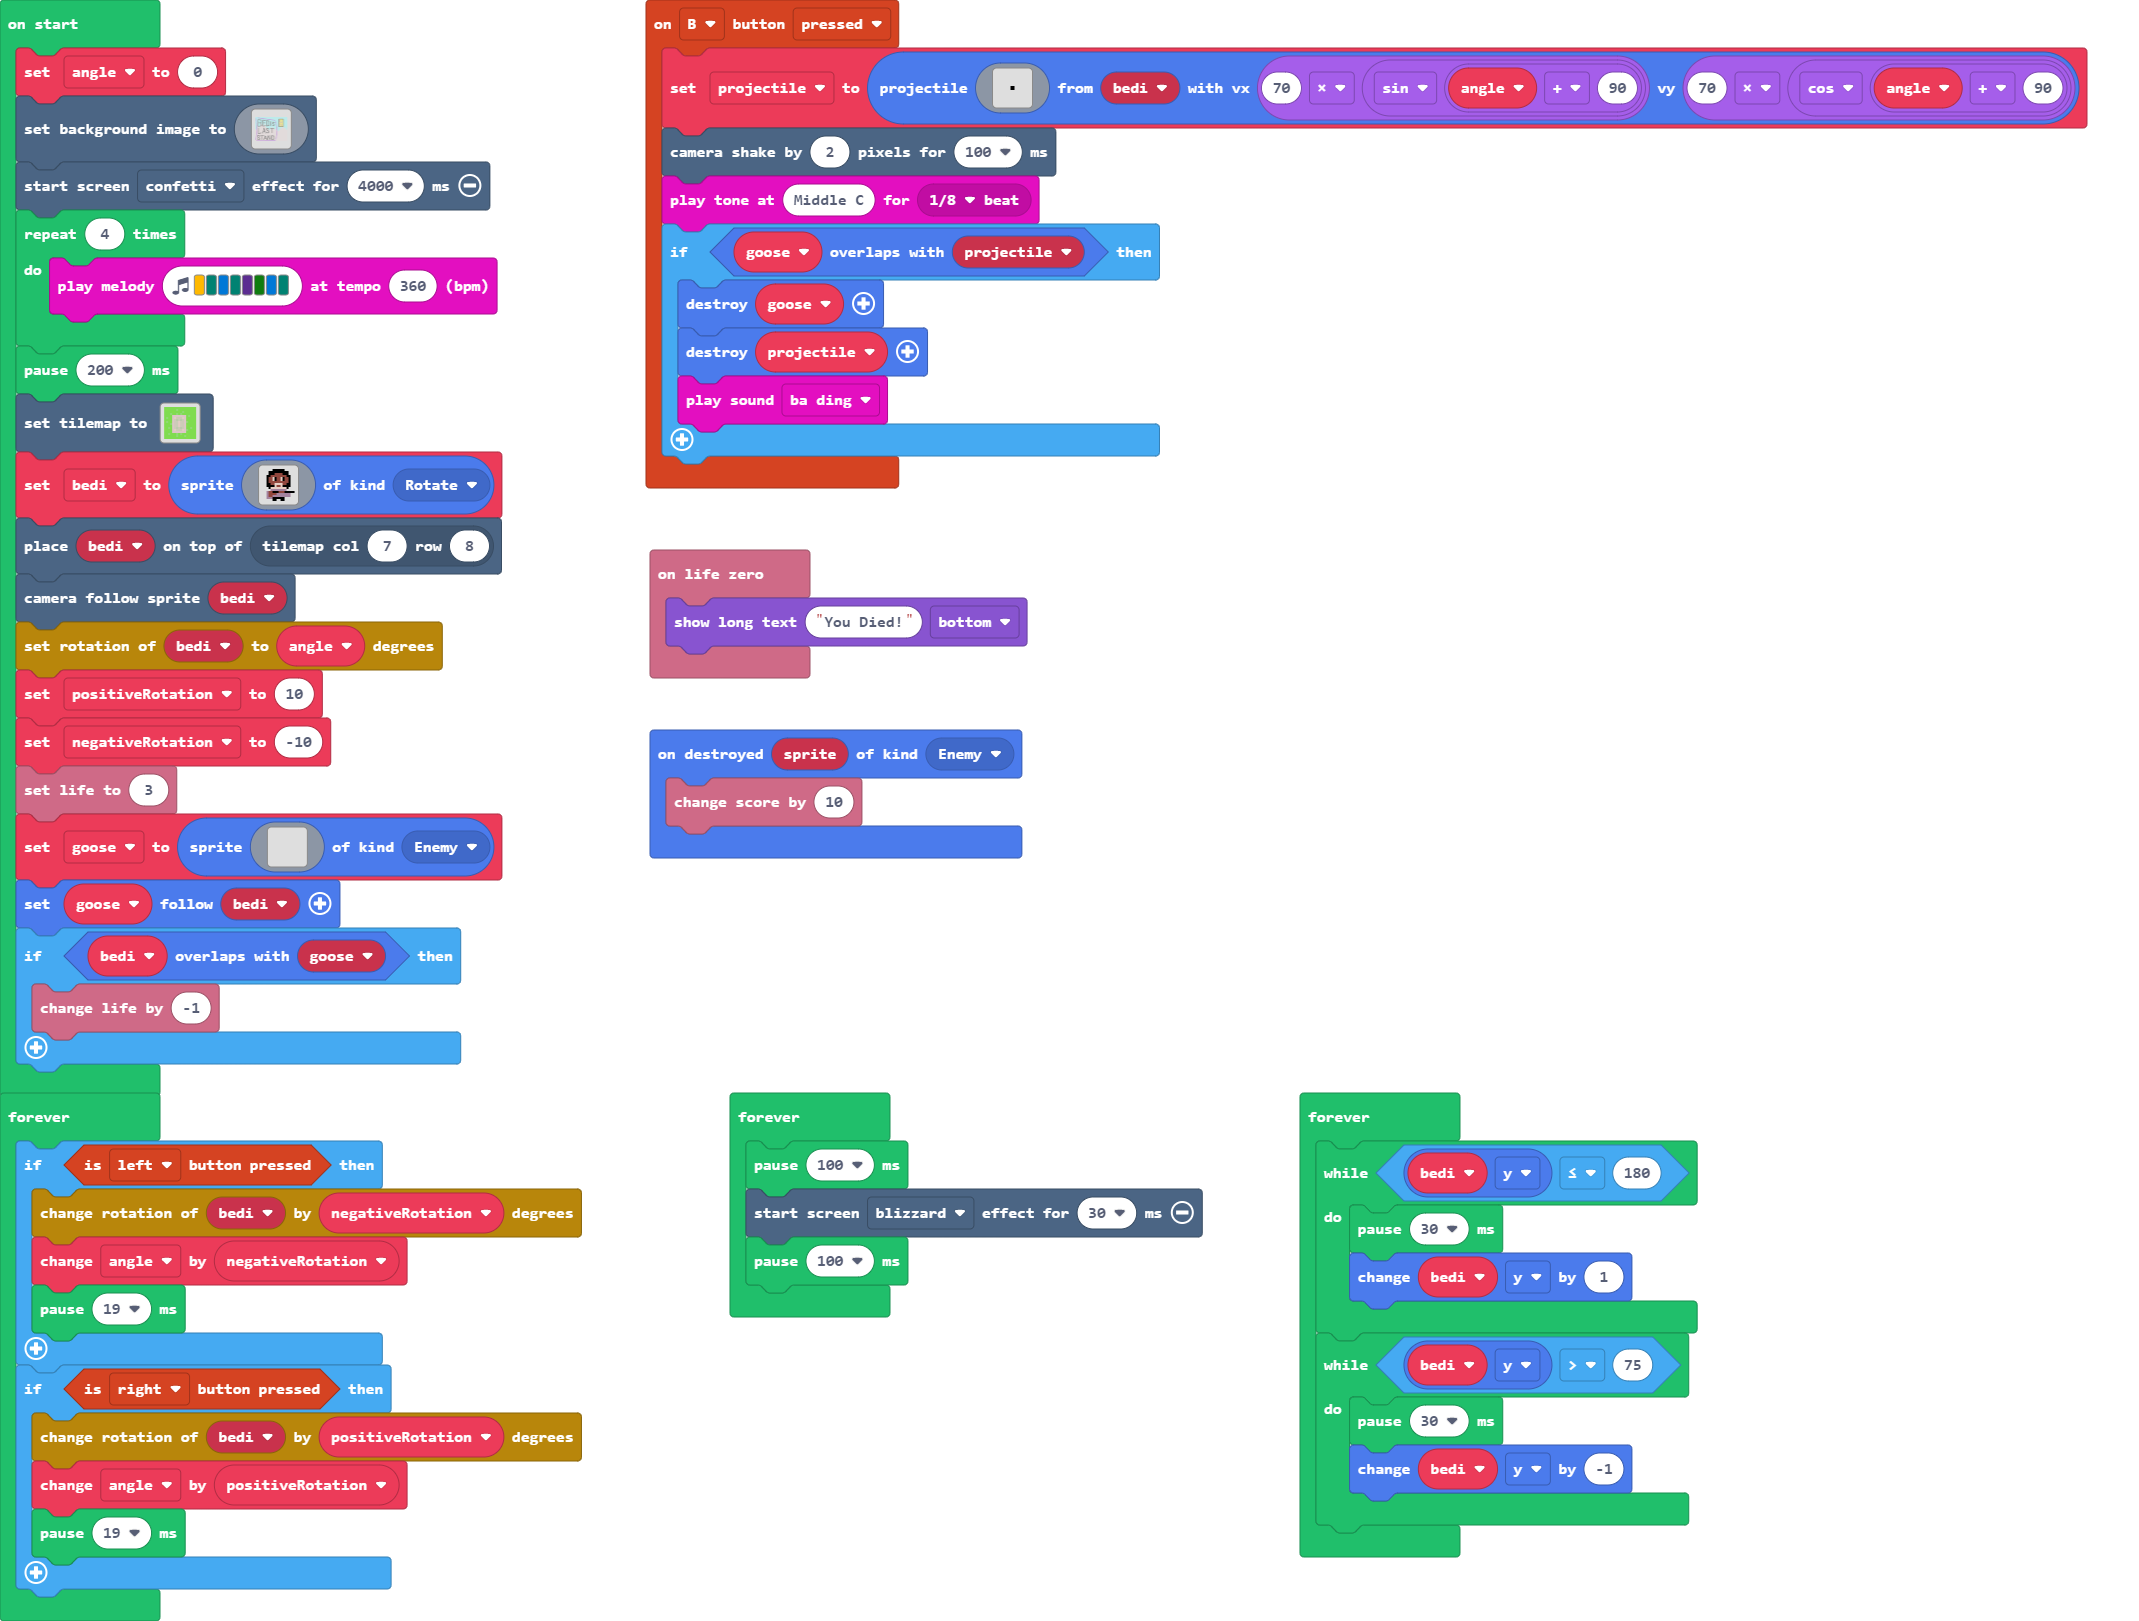
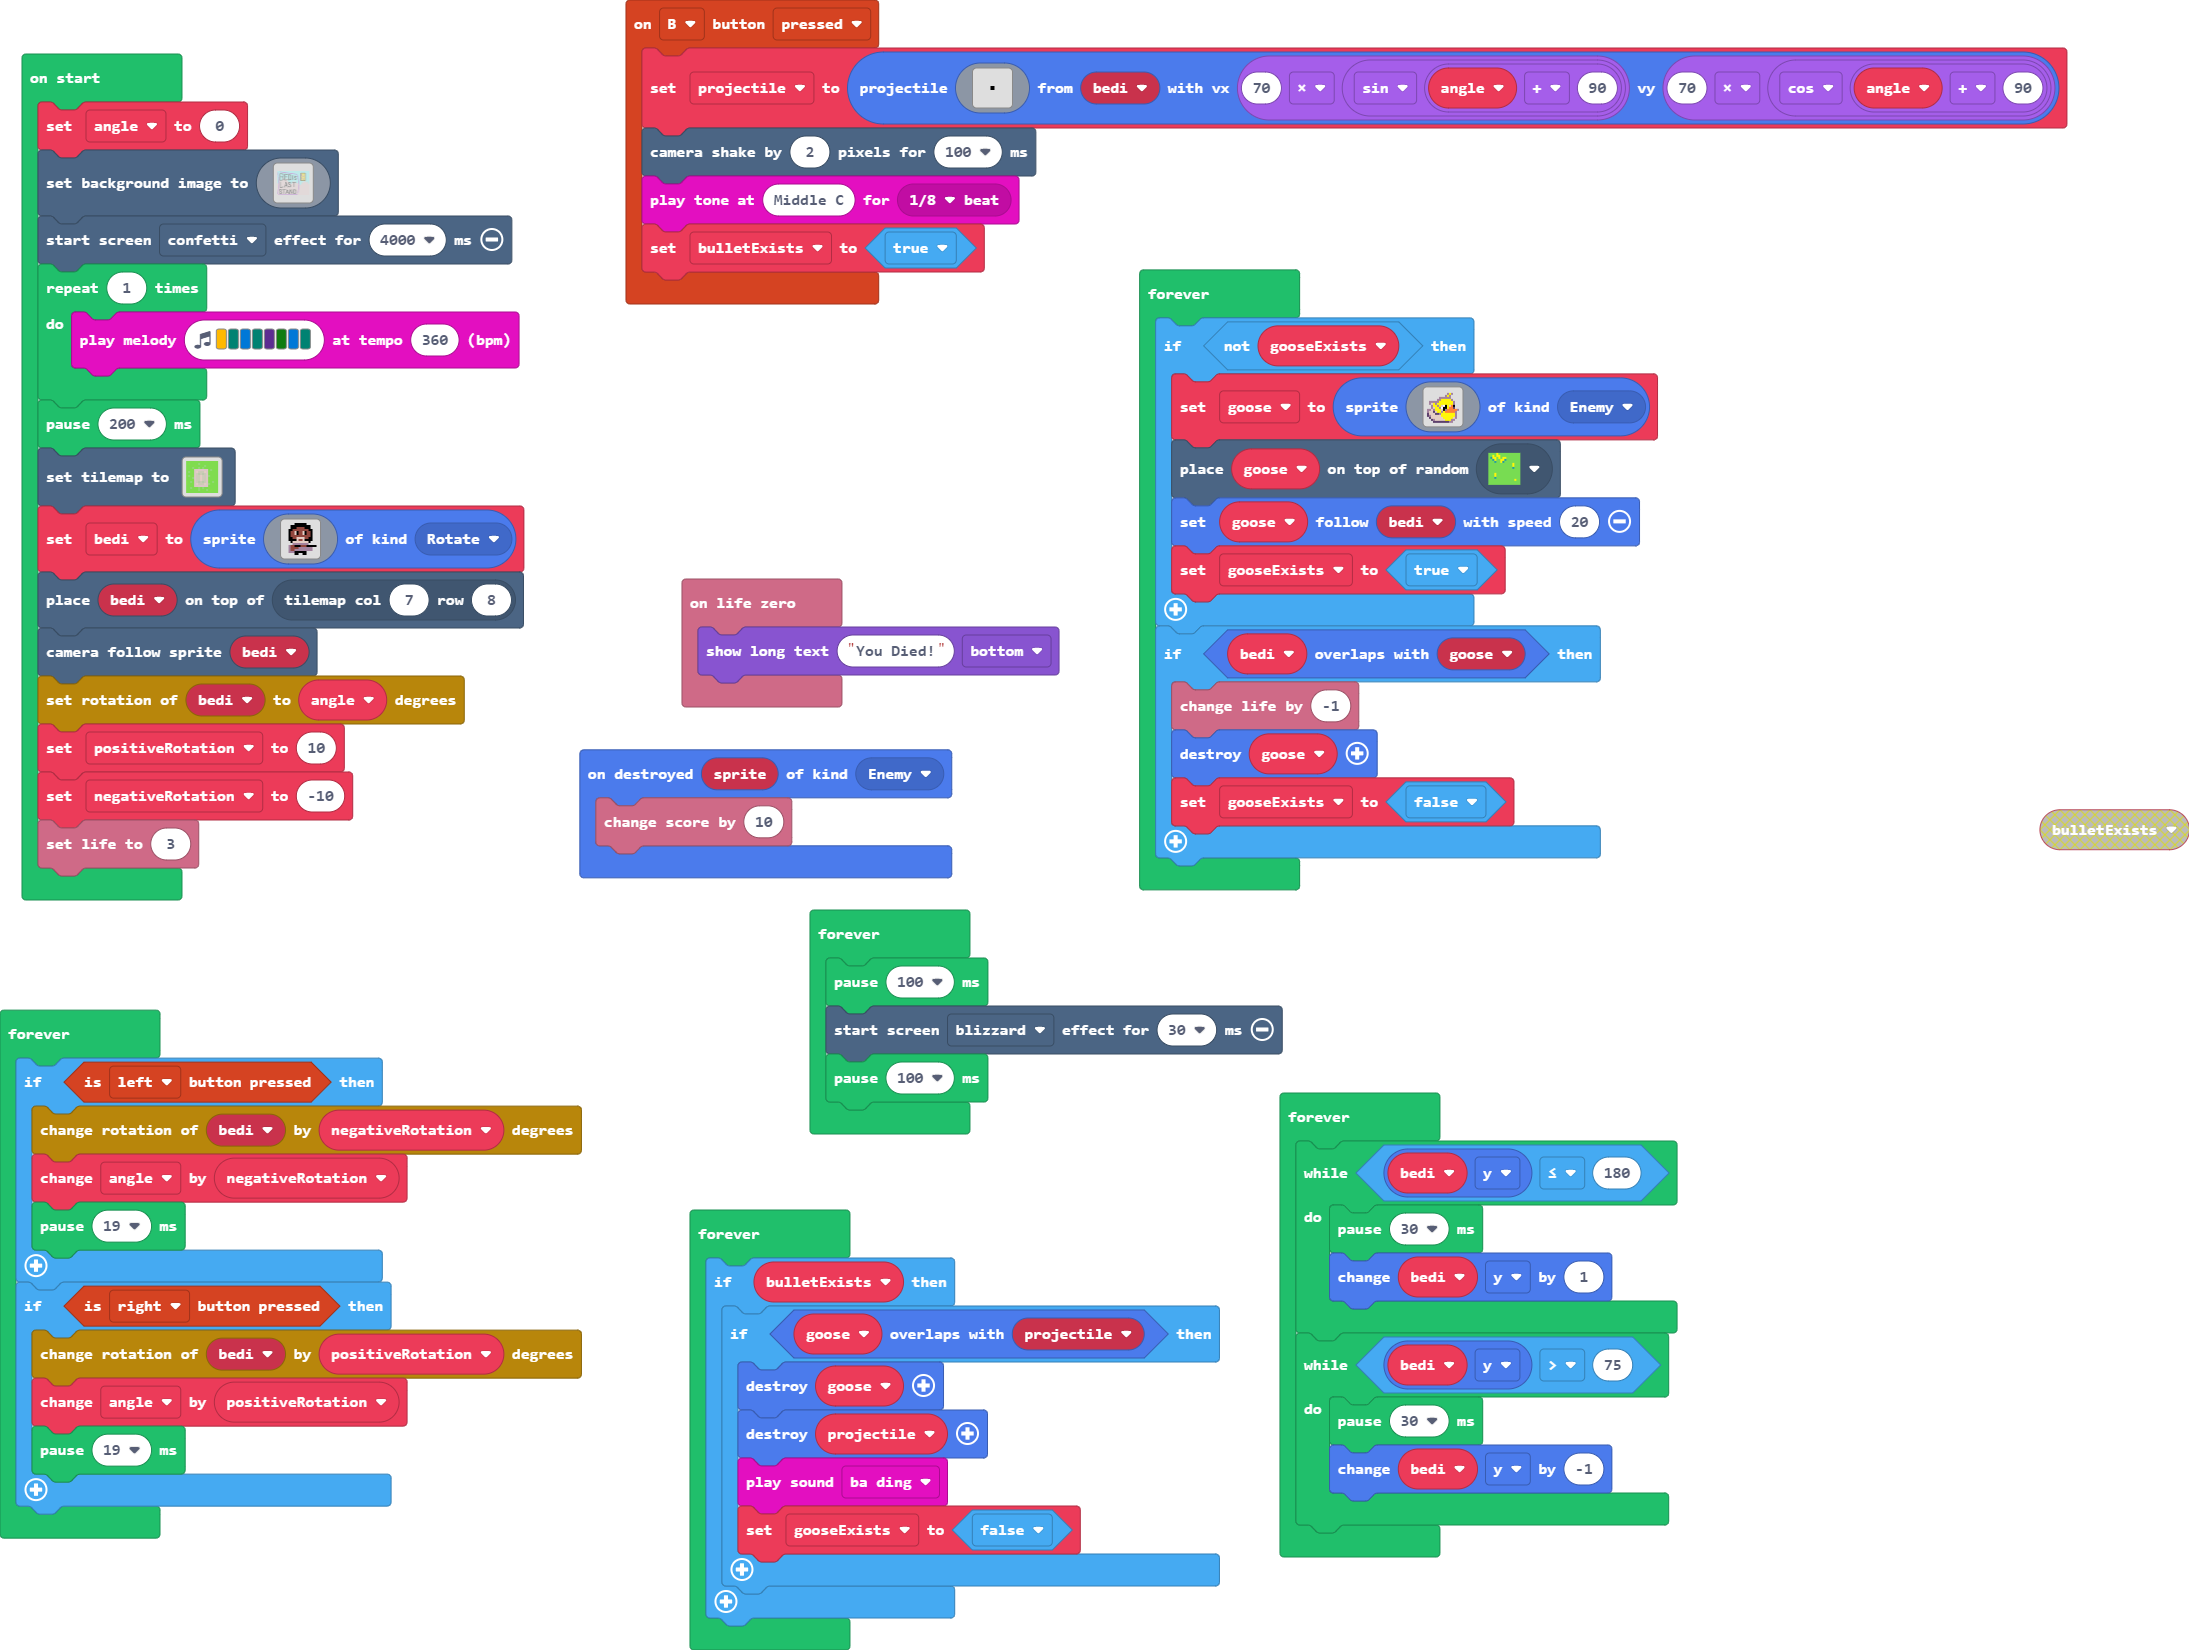
Update main.blocks, main.ts

diff --git a/main.ts b/main.ts
@@ -22,11 +22,7 @@ controller.B.onEvent(ControllerButtonEvent.Pressed, function () {
         `, bedi, 70 * Math.sin(angle + 90), 70 * Math.cos(angle + 90))
     scene.cameraShake(2, 100)
     music.playTone(262, music.beat(BeatFraction.Eighth))
-    if (goose.overlapsWith(projectile)) {
-        goose.destroy()
-        projectile.destroy()
-        music.baDing.play()
-    }
+    bulletExists = true
 })
 info.onLifeZero(function () {
     game.showLongText("You Died!", DialogLayout.Bottom)
@@ -34,8 +30,10 @@ info.onLifeZero(function () {
 sprites.onDestroyed(SpriteKind.Enemy, function (sprite) {
     info.changeScoreBy(10)
 })
-let projectile: Sprite = null
 let goose: Sprite = null
+let gooseExists = false
+let bulletExists = false
+let projectile: Sprite = null
 let bedi: Sprite = null
 let angle = 0
 angle = 0
@@ -162,7 +160,7 @@ scene.setBackgroundImage(img`
     dddddddddddddddddddddddddddddddddddddddddddddddddddddddddddddddddddddddddddddddddddddddddddddddddddddddddddddddddddddddddddddddddddddddddddddddddddddddddddddddd
     `)
 effects.confetti.startScreenEffect(4000)
-for (let index = 0; index < 4; index++) {
+for (let index = 0; index < 1; index++) {
     music.playMelody("A F E F D G E F ", 360)
 }
 pause(200)
@@ -191,28 +189,41 @@ transformSprites.rotateSprite(bedi, angle)
 let positiveRotation = 10
 let negativeRotation = -10
 info.setLife(3)
-goose = sprites.create(img`
-    . . . . . . . . . . . . . . . . 
-    . . . . . . . . . . . . . . . . 
-    . . . . . . . . . . . . . . . . 
-    . . . . . . . . . . . . . . . . 
-    . . . . . . . . . . . . . . . . 
-    . . . . . . . . . . . . . . . . 
-    . . . . . . . . . . . . . . . . 
-    . . . . . . . . . . . . . . . . 
-    . . . . . . . . . . . . . . . . 
-    . . . . . . . . . . . . . . . . 
-    . . . . . . . . . . . . . . . . 
-    . . . . . . . . . . . . . . . . 
-    . . . . . . . . . . . . . . . . 
-    . . . . . . . . . . . . . . . . 
-    . . . . . . . . . . . . . . . . 
-    . . . . . . . . . . . . . . . . 
-    `, SpriteKind.Enemy)
-goose.follow(bedi)
-if (bedi.overlapsWith(goose)) {
-    info.changeLifeBy(-1)
-}
+forever(function () {
+    if (!(gooseExists)) {
+        goose = sprites.create(img`
+            . . . . . . . . . . . . . . . . 
+            . . . . . . . . . . b 5 b . . . 
+            . . . . . . . . . b 5 b . . . . 
+            . . . . . . b b b b b b . . . . 
+            . . . . . b b 5 5 5 5 5 b . . . 
+            . b b b b b 5 5 5 5 5 5 5 b . . 
+            . b d 5 b 5 5 5 5 5 5 5 5 b . . 
+            . . b 5 5 b 5 d 1 f 5 d 4 f . . 
+            . . b d 5 5 b 1 f f 5 4 4 c . . 
+            b b d b 5 5 5 d f b 4 4 4 4 4 b 
+            b d d c d 5 5 b 5 4 4 4 4 4 b . 
+            c d d d c c b 5 5 5 5 5 5 5 b . 
+            c b d d d d d 5 5 5 5 5 5 5 b . 
+            . c d d d d d d 5 5 5 5 5 d b . 
+            . . c b d d d d d 5 5 5 b b . . 
+            . . . c c c c c c c c b b . . . 
+            `, SpriteKind.Enemy)
+        tiles.placeOnRandomTile(goose, sprites.castle.tileGrass1)
+        goose.follow(bedi, 20)
+        gooseExists = true
+    }
+    if (bedi.overlapsWith(goose)) {
+        info.changeLifeBy(-1)
+        goose.destroy()
+        gooseExists = false
+    }
+})
+forever(function () {
+    pause(100)
+    effects.blizzard.startScreenEffect(30)
+    pause(100)
+})
 forever(function () {
     if (controller.left.isPressed()) {
         transformSprites.changeRotation(bedi, negativeRotation)
@@ -226,11 +237,6 @@ forever(function () {
     }
 })
 forever(function () {
-    pause(100)
-    effects.blizzard.startScreenEffect(30)
-    pause(100)
-})
-forever(function () {
     while (bedi.y <= 180) {
         pause(30)
         bedi.y += 1
@@ -238,5 +244,15 @@ forever(function () {
     while (bedi.y > 75) {
         pause(30)
         bedi.y += -1
+    }
+})
+forever(function () {
+    if (bulletExists) {
+        if (goose.overlapsWith(projectile)) {
+            goose.destroy()
+            projectile.destroy()
+            music.baDing.play()
+            gooseExists = false
+        }
     }
 })
